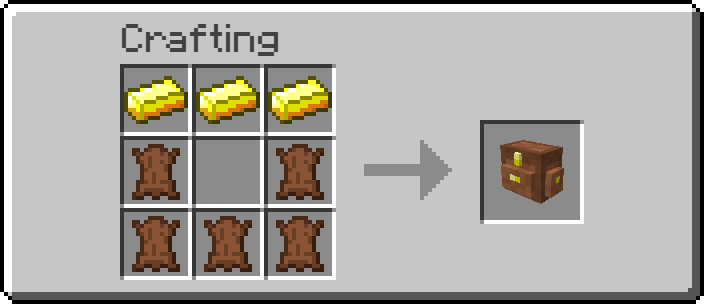
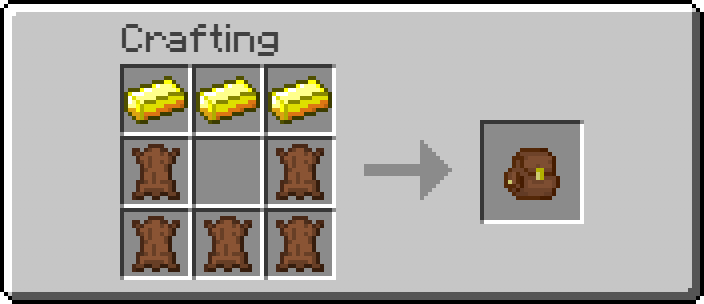
Update devlog with GGG progress

Changed region(s): [[0.6875, 0.4441, 0.8125, 0.6809]]

diff --git a/DEVLOG.md b/DEVLOG.md
@@ -32,10 +32,14 @@ Minecraft: Release+, continued through larger updates and smaller feature parts.
     - [Pouch](#pouch)
     - [Hard Leather](#hard-leather)
     - [Fishing Hat](#fishing-hat)
+    - [Fishing Trap](#fishing-trap)
+    - [Muffled Boots](#muffled-boots)
+    - [Ninja Boots](#ninja-boots)
     - [Belt](#belt)
     - [Backpack](#backpack)
       - [Worn and placed](#worn-and-placed)
       - [Inventory](#inventory)
+    - [Recipe Book](#recipe-book)
     - [Stone of Return](#stone-of-return)
     - [Bottle o' Enchanting](#bottle-o-enchanting)
     - [Rope](#rope)
@@ -442,7 +446,8 @@ The Blast Furnace is the main way to make Steel and a faster furnace for ores.
 <img src="docs/images/blast-furnace.png" alt="Blast Furnace" width="470">
 
 - Ores smelt at twice the speed of a normal Furnace
-- Iron Ingots become Steel Ingots only while the Blast Furnace is burning Charcoal
+- Iron Ingots become Steel Ingots only while the Blast Furnace is burning Charcoal, a Blaze Rod or a Lava Bucket
+- A Lava Bucket used for Steel leaves its empty Bucket behind
 - Charcoal has a distinct Release+ texture to separate it from Coal
 - Furnaces and Blast Furnaces have operating sounds that can be disabled in `Release+ Features`
 
@@ -520,6 +525,8 @@ Current Anvil repair materials:
 | Flint tools | Flint |
 | Stone tools | Stone |
 | Leather armor | Leather |
+| Fishing Hat / Muffled Boots | Hard Leather |
+| Ninja Boots | Steel Ingot |
 | Chainmail | Chain Links |
 | Copper equipment | Copper Ingot |
 | Iron equipment and Shears | Iron Ingot |
@@ -612,6 +619,7 @@ Release+-specific visual and sound options are grouped under `Release+ Features`
 - Tarot: three cosmetic texture variants
 - Charcoal: Release+ or Vanilla
 - Furnace Sounds: ON or OFF
+- Stealth Footsteps: ON or OFF (default ON)
 - Belt Item Display: ON or OFF (default ON)
 - These settings do not change gameplay
 
@@ -657,7 +665,7 @@ Hard Leather is a reinforced form of Leather used for sturdier utility equipment
 
 <img src="docs/images/hard-leather-comparison.png" alt="Leather and Hard Leather" width="360">
 
-- Hard Leather is used by the Backpack, Fishing Hat and Belt
+- Hard Leather is used by the Backpack, Fishing Hat, Belt and Muffled Boots
 - Books now use Hard Leather instead of normal Leather
 
 #### Fishing Hat
@@ -677,6 +685,70 @@ The Fishing Hat is a reinforced Leather Helmet for players who spend time fishin
 
 <img src="docs/images/fishing-hat-recipe.png" alt="Fishing Hat recipe" width="360">
 <img src="docs/images/fishing-hat-inventory.png" alt="Fishing Hat equipped in the inventory" width="360">
+
+</details>
+
+#### Fishing Trap
+
+The Fishing Trap is a passive fishing tool that catches Raw Fish while set in suitable water.
+
+<img src="docs/images/fishing-trap-underwater.png" alt="Fishing Trap set underwater" width="430">
+
+- Can be placed dry on solid ground or directly into water, with water occupying the same block as the trap
+- Only catches while waterlogged with water at its open side
+- Stores up to **3 Raw Fish**
+- Bubble bursts show stored catches, and a dedicated catch sound plays when a new fish is caught
+- Right-clicking removes one caught fish at a time
+- Rain improves the catch rate
+- Breaking the trap drops any stored catches
+
+<details>
+<summary>Recipe and more views</summary>
+
+<img src="docs/images/fishing-trap-recipe.png" alt="Fishing Trap recipe" width="360">
+<img src="docs/images/fishing-trap-bubbles.png" alt="Fishing Trap bubbles showing stored catches" width="310">
+<img src="docs/images/fishing-trap-onland-dropped.png" alt="Placed and dropped Fishing Trap" width="310">
+
+</details>
+
+#### Muffled Boots
+
+Muffled Boots are padded Hard Leather utility boots for quieter movement and easier sneaking around hostile mobs.
+
+<img src="docs/images/muffled-boots.png" alt="Muffled Boots worn by the player" width="500">
+
+- Provide the same **1 armor point** as Leather Boots
+- Have **105 durability**
+- The recipe accepts any Wool color
+- While sneaking, an ordinary hostile mob's 16-block detection range is reduced to **14 blocks**
+- Use softened versions of the normal surface footstep sounds while worn
+- The custom footsteps can be disabled with `Stealth Footsteps` in `Release+ Features` without changing the stealth effect
+- Can be repaired with Hard Leather at an Anvil
+
+<details>
+<summary>Recipe</summary>
+
+<img src="docs/images/muffled-boots-recipe.png" alt="Muffled Boots recipe" width="360">
+
+</details>
+
+#### Ninja Boots
+
+Ninja Boots are the Steel-reinforced upgrade to Muffled Boots, trading a little more material investment for stronger stealth and protection.
+
+<img src="docs/images/ninja-boots.png" alt="Ninja Boots worn by the player" width="500">
+
+- Provide **2 armor points**
+- Have **125 durability**
+- While sneaking, an ordinary hostile mob's 16-block detection range is reduced to **10 blocks**
+- Use a stronger softened footstep treatment than Muffled Boots
+- Their custom footsteps use the same `Stealth Footsteps` setting
+- Can be repaired with a Steel Ingot at an Anvil
+
+<details>
+<summary>Recipe</summary>
+
+<img src="docs/images/ninja-boots-recipe.png" alt="Ninja Boots recipe" width="360">
 
 </details>
 
@@ -762,6 +834,32 @@ The same nine slots stay with the Backpack whether it is worn, carried or placed
 
 <img src="docs/images/backpack-render.png" alt="Backpack model render" width="240">
 <img src="docs/images/backpack-render2.png" alt="Backpack model render from another angle" width="240">
+
+</details>
+
+#### Recipe Book
+
+The Recipe Book is an early-game reference item for learning what items are and how they fit into the current crafting and smelting systems. Its design is heavily inspired by the Knowledge Book from Minecraft Infinite.
+
+<img src="docs/images/recipe-book-diaaxe-about.png" alt="Recipe Book About page" width="300">
+<img src="docs/images/recipe-book-dropped.png" alt="Dropped Recipe Book" width="250">
+
+- Right-clicking the held book opens a dedicated Release 1.0-style book interface
+- Placing an item into the inspection slot shows a short custom description on its About page
+- The following pages show applicable **Smelting Recipes** and **Crafting Recipes**, including recipes that make the inspected item and recipes that use it
+- Empty recipe categories are omitted
+- Alternative ingredients and valid smelting fuels cycle in place; hovering pauses them and the mouse wheel can browse the available options
+- The displayed recipes use the game's current recipe data, including interchangeable ingredients such as Cobblestone and Cobbled Netherstone
+- Opening, closing and turning pages use dedicated book sounds
+
+<details>
+<summary>Recipe and GUI views</summary>
+
+<img src="docs/images/recipe-book-recipe.png" alt="Recipe Book recipe" width="360">
+<img src="docs/images/recipe-book-empty.png" alt="Empty Recipe Book interface" width="300">
+<img src="docs/images/recipe-book-diaaxe-crafting.png" alt="Recipe Book crafting recipe page" width="300">
+<img src="docs/images/recipe-book-smelting.png" alt="Recipe Book smelting recipe page" width="300">
+<img src="docs/images/recipe-book-multitooltip.png" alt="Recipe Book multiple-option ingredient tooltip" width="320">
 
 </details>
 
@@ -876,10 +974,14 @@ There is currently no way to obtain the Tarot of Death in Survival.
 - Blast Furnace, Anvil and Steel Hammer visuals are recolored/retextured vanilla Minecraft assets
 - Grindstone model, GUI and sounds are adapted from later vanilla Minecraft assets, with its textures reworked/recolored for Release+
 - Fishing Hat item sprite is based on the Angler's Hat from [Artifacts](https://modrinth.com/mod/artifacts)
+- Fishing Trap catch sounds are edited variants of [Bubble in Water](https://pixabay.com/sound-effects/nature-bubble-in-water-422579/) on Pixabay
+- Muffled Boots and Ninja Boots use recolored vanilla boot assets; their optional stealth footsteps are processed variants of vanilla footstep sounds
 - Belt item sprite is heavily based on and recolored from [Tool Belt Retextured](https://www.curseforge.com/minecraft/texture-packs/tool-belt-retextured)
 - Chain Links texture is inspired by [Better Than Adventure](https://www.betterthanadventure.net/)
 - Crystal textures are based on artwork by [yptsh](https://x.com/yptsh/status/1623341389122510848)
 - Pouch, Spyglass and Bottle o' Enchanting assets are based on assets from later Minecraft versions
+- The Recipe Book system is heavily inspired by the Knowledge Book from Minecraft Infinite (formerly Infdev+), part of [Legacy+](https://legacy-plus.dejvoss.cz/) by Yoniko
+- Recipe Book GUI/book visuals are adapted from the vanilla Enchantment Table book, and its open/close/page sounds are adapted from later vanilla Minecraft assets
 - Tarot of Death uses an adapted Totem of Undying activation sound from later Minecraft versions
 - Rope item texture is heavily based on and recolored from [Farmer's Delight](https://www.curseforge.com/minecraft/mc-mods/farmers-delight)
 - Placed Rope texture is heavily based on and recolored from [this NovaSkin Rope texture](https://minecraft.novaskin.me/post/5166333130/rope)
